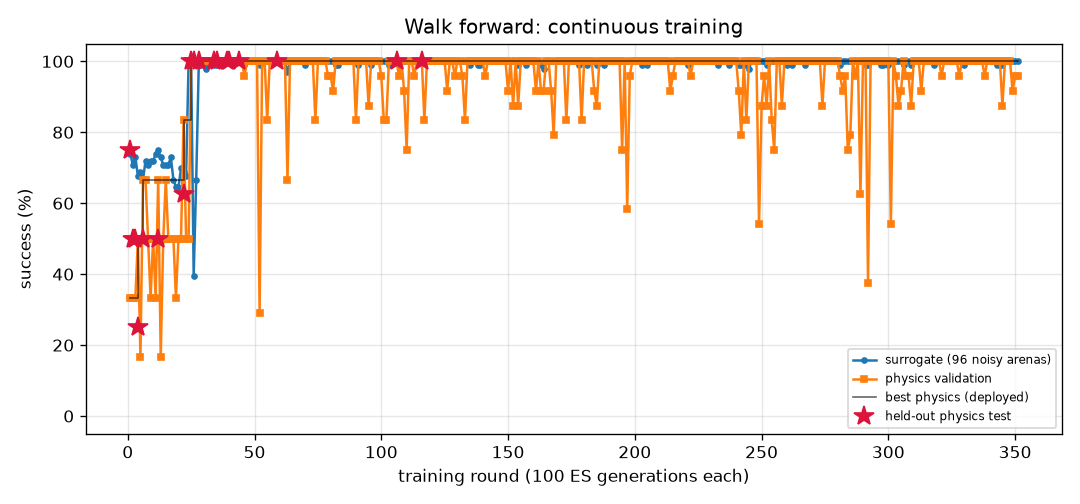
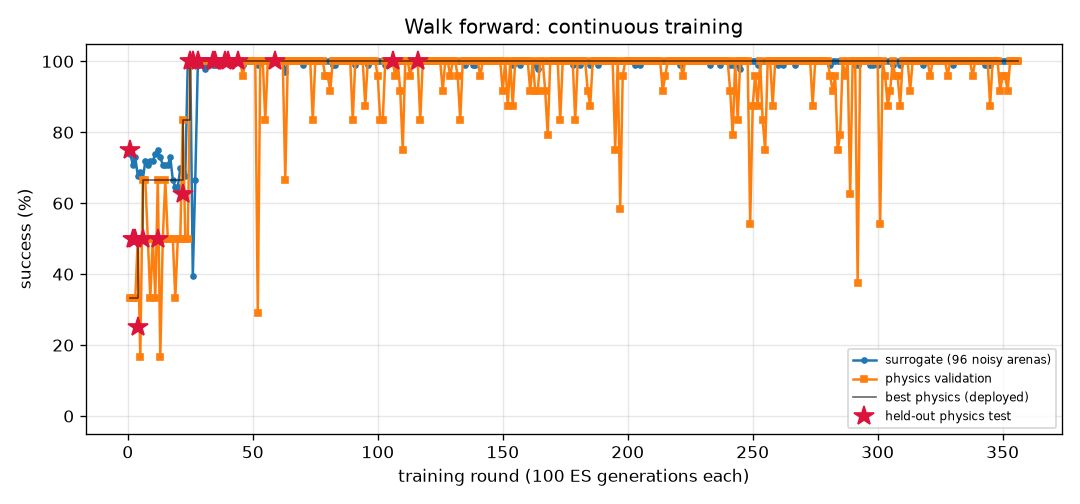
FlyLab: continuous training progress
- walk_forward: optimal, physics val 100% of 24, round 356
- turn: optimal, physics val 100% of 24, round 971
- goto: optimal, physics val 100% of 24, round 281
- odor_seek: optimal, physics val 100% of 24, round 228
- odor_avoid: optimal, physics val 100% of 24, round 867
- light_seek: optimal, physics val 100% of 24, round 478
- light_avoid: optimal, physics val 100% of 24, round 602

diff --git a/projects/09_flylab/training/walk_forward/REPORT.md b/projects/09_flylab/training/walk_forward/REPORT.md
@@ -1,14 +1,14 @@
 # Walk forward (`walk_forward`) — training report
 
-*Auto-generated by `train_brains.py`, last updated 2026-11-09T20:40:05.*
+*Auto-generated by `train_brains.py`, last updated 2026-11-09T21:34:55.*
 
 ![curve](curve.png)
 
 | | |
 |---|---|
-| rounds | 351 |
-| ES generations | 35100 |
-| physics runs | 8438 |
+| rounds | 356 |
+| ES generations | 35600 |
+| physics runs | 8558 |
 | status | **optimal** |
 | best brain | round 116: physics validation **100%** on 24 arenas, surrogate 100% |
 | held-out physics test | **100%** on 32 unseen arenas (95% CI 89%-100%) (errors: [0.13, 0.16, 0.19, 0.16, 0.15, 0.2, 0.17, 0.18, 0.17, 0.19, 0.2, 0.14, 0.17, 0.19, 0.2, 0.2, 0.13, 0.19, 0.16, 0.2, 0.2, 0.16, 0.17, 0.2, 0.13, 0.15, 0.18, 0.14, 0.16, 0.15, 0.19, 0.12]) |
@@ -17,11 +17,6 @@ Physics error per arena: mm from target at the end (< 1.5 and standing still = s
 
 | round | level | gens | sigma | surrogate | physics val | val errors | test | note |
 |---:|---:|---:|---:|---:|---:|---|---:|---|
-| 312 | 3 | 31200 | 0.024 | 100% | 100% | [0.27, 0.41, 0.14, 0.27, 0.41, 0.07, 0.43, 0.25, 0.45, 0.48, 0.12, 0.48, 0.24, 0.09, 0.28, 0.47, 0.26, 0.34, 0.24, 0.32, 0.25, 0.49, 0.47, 0.25] |  | restart from best |
-| 313 | 3 | 31300 | 0.024 | 100% | 92% | [0.1, 0.14, 0.19, 0.07, 0.14, 0.1, 0.24, 0.11, 0.13, 0.3, 0.12, 0.33, 0.1, 0.03, 0.08, 0.29, 0.04, 0.16, 0.07, 0.08, 0.06, 0.22, 0.24, 0.1] |  |  |
-| 314 | 3 | 31400 | 0.024 | 100% | 100% | [0.24, 0.23, 0.22, 0.24, 0.23, 0.22, 0.23, 0.23, 0.23, 0.22, 0.21, 0.21, 0.24, 0.22, 0.23, 0.21, 0.24, 0.23, 0.24, 0.23, 0.24, 0.22, 0.2, 0.24] |  |  |
-| 315 | 3 | 31500 | 0.024 | 100% | 100% | [0.23, 0.23, 0.18, 0.23, 0.23, 0.17, 0.23, 0.2, 0.23, 0.22, 0.17, 0.2, 0.2, 0.17, 0.24, 0.21, 0.23, 0.24, 0.2, 0.24, 0.21, 0.21, 0.2, 0.2] |  |  |
-| 316 | 3 | 31600 | 0.024 | 100% | 100% | [0.26, 0.34, 0.3, 0.26, 0.33, 0.31, 0.34, 0.29, 0.34, 0.37, 0.32, 0.38, 0.29, 0.31, 0.27, 0.38, 0.27, 0.3, 0.29, 0.28, 0.28, 0.37, 0.37, 0.29] |  | restart from best |
 | 317 | 3 | 31700 | 0.024 | 100% | 100% | [0.08, 0.13, 0.07, 0.08, 0.13, 0.07, 0.12, 0.13, 0.16, 0.21, 0.08, 0.15, 0.08, 0.06, 0.09, 0.23, 0.08, 0.15, 0.08, 0.15, 0.08, 0.17, 0.26, 0.08] |  |  |
 | 318 | 3 | 31800 | 0.024 | 99% | 100% | [0.24, 0.26, 0.18, 0.25, 0.26, 0.16, 0.26, 0.21, 0.26, 0.23, 0.15, 0.21, 0.21, 0.17, 0.25, 0.22, 0.24, 0.26, 0.22, 0.25, 0.23, 0.23, 0.21, 0.21] |  |  |
 | 319 | 3 | 31900 | 0.025 | 100% | 100% | [0.25, 0.32, 0.15, 0.24, 0.33, 0.11, 0.35, 0.23, 0.33, 0.37, 0.08, 0.37, 0.18, 0.1, 0.32, 0.42, 0.24, 0.34, 0.22, 0.32, 0.21, 0.38, 0.44, 0.22] |  |  |
@@ -57,3 +52,8 @@ Physics error per arena: mm from target at the end (< 1.5 and standing still = s
 | 349 | 3 | 34900 | 0.024 | 100% | 92% | [0.18, 0.12, 0.08, 0.18, 0.14, 0.06, 0.12, 0.16, 0.12, 0.15, 0.06, 0.17, 0.03, 0.06, 0.05, 0.09, 0.19, 0.08, 0.19, 0.05, 0.16, 0.15, 0.13, 0.06] |  |  |
 | 350 | 3 | 35000 | 0.024 | 100% | 96% | [0.1, 0.17, 0.36, 0.1, 0.17, 0.38, 0.18, 0.04, 0.17, 0.19, 0.05, 0.19, 0.06, 0.53, 0.12, 0.2, 0.03, 0.15, 0.06, 0.13, 0.29, 0.19, 0.19, 0.05] |  |  |
 | 351 | 3 | 35100 | 0.024 | 100% | 96% | [0.07, 0.24, 0.24, 0.06, 0.24, 0.05, 0.25, 0.04, 0.24, 0.27, 0.14, 0.27, 0.1, 0.13, 0.05, 0.26, 0.1, 0.23, 0.08, 0.11, 0.09, 0.27, 0.17, 0.1] |  |  |
+| 352 | 3 | 35200 | 0.024 | 100% | 92% | [0.15, 0.2, 0.05, 0.15, 0.2, 0.05, 0.21, 0.07, 0.21, 0.23, 0.05, 0.22, 0.07, 0.08, 0.16, 0.22, 0.07, 0.2, 0.17, 0.17, 0.08, 0.23, 0.21, 0.28] |  | restart from best |
+| 353 | 3 | 35300 | 0.024 | 100% | 100% | [0.2, 0.26, 0.15, 0.2, 0.26, 0.02, 0.25, 0.17, 0.26, 0.26, 0.03, 0.24, 0.17, 0.14, 0.22, 0.25, 0.19, 0.25, 0.17, 0.23, 0.18, 0.25, 0.24, 0.17] |  |  |
+| 354 | 3 | 35400 | 0.024 | 100% | 100% | [0.22, 0.24, 0.17, 0.21, 0.24, 0.17, 0.24, 0.18, 0.24, 0.25, 0.16, 0.24, 0.18, 0.17, 0.22, 0.25, 0.21, 0.23, 0.19, 0.22, 0.19, 0.25, 0.24, 0.19] |  |  |
+| 355 | 3 | 35500 | 0.024 | 100% | 100% | [0.34, 0.33, 0.35, 0.34, 0.33, 0.34, 0.32, 0.34, 0.33, 0.32, 0.33, 0.31, 0.35, 0.34, 0.34, 0.31, 0.34, 0.33, 0.34, 0.34, 0.34, 0.32, 0.31, 0.35] |  |  |
+| 356 | 3 | 35600 | 0.024 | 100% | 100% | [0.25, 0.26, 0.21, 0.25, 0.26, 0.21, 0.26, 0.22, 0.27, 0.25, 0.2, 0.24, 0.22, 0.21, 0.27, 0.24, 0.24, 0.27, 0.23, 0.26, 0.23, 0.25, 0.24, 0.22] |  | restart from best |

diff --git a/projects/09_flylab/training/light_seek/REPORT.md b/projects/09_flylab/training/light_seek/REPORT.md
@@ -1,14 +1,14 @@
 # Walk toward light (`light_seek`) — training report
 
-*Auto-generated by `train_brains.py`, last updated 2026-11-09T20:46:01.*
+*Auto-generated by `train_brains.py`, last updated 2026-11-09T21:17:16.*
 
 ![curve](curve.png)
 
 | | |
 |---|---|
-| rounds | 476 |
-| ES generations | 47600 |
-| physics runs | 8304 |
+| rounds | 478 |
+| ES generations | 47800 |
+| physics runs | 8352 |
 | status | **optimal** |
 | best brain | round 375: physics validation **100%** on 24 arenas, surrogate 100% |
 | held-out physics test | **100%** on 32 unseen arenas (95% CI 89%-100%) (errors: [0.57, 0.54, 0.53, 0.57, 0.55, 0.56, 0.59, 0.56, 0.53, 0.56, 0.71, 0.56, 0.55, 0.54, 0.53, 0.54, 0.54, 0.55, 0.52, 0.65, 0.64, 0.7, 0.58, 0.57, 0.6, 0.62, 0.55, 0.88, 0.54, 0.52, 0.62, 0.57]) |
@@ -17,8 +17,6 @@ Physics error per arena: mm from target at the end (< 1.5 and standing still = s
 
 | round | level | gens | sigma | surrogate | physics val | val errors | test | note |
 |---:|---:|---:|---:|---:|---:|---|---:|---|
-| 437 | 3 | 43700 | 0.024 | 100% | 96% | [1.6, 0.61, 0.54, 0.55, 0.56, 0.55, 0.56, 0.5, 0.55, 0.63, 0.52, 0.59, 0.6, 0.55, 0.56, 0.62, 0.56, 0.54, 0.63, 0.58, 0.7, 0.56, 0.58, 0.6] |  |  |
-| 438 | 3 | 43800 | 0.024 | 100% | 100% | [0.57, 0.55, 0.61, 0.62, 0.6, 0.58, 0.59, 0.59, 0.66, 0.69, 0.72, 0.55, 0.64, 0.59, 0.64, 0.58, 0.55, 1.06, 0.54, 0.6, 0.62, 0.64, 0.58, 0.65] |  |  |
 | 439 | 3 | 43900 | 0.024 | 100% | 100% | [0.57, 0.5, 0.71, 0.66, 0.54, 1.13, 0.49, 0.48, 0.94, 0.61, 0.49, 0.49, 0.49, 0.51, 0.52, 0.47, 0.51, 0.55, 0.66, 0.47, 0.6, 0.49, 0.53, 0.52] |  | restart from best |
 | 440 | 3 | 44000 | 0.024 | 100% | 100% | [0.63, 0.71, 0.7, 0.61, 0.62, 0.59, 0.62, 0.56, 1.31, 0.64, 0.74, 0.73, 0.72, 0.57, 0.73, 0.61, 0.64, 0.78, 0.57, 0.62, 0.75, 0.64, 0.77, 0.74] |  |  |
 | 441 | 3 | 44100 | 0.024 | 100% | 100% | [0.69, 0.63, 0.58, 0.67, 0.81, 0.59, 0.62, 0.71, 0.7, 0.58, 0.59, 0.66, 0.7, 0.57, 0.68, 0.66, 1.06, 0.58, 0.69, 0.6, 0.56, 0.68, 0.73, 0.65] |  |  |
@@ -57,3 +55,5 @@ Physics error per arena: mm from target at the end (< 1.5 and standing still = s
 | 474 | 3 | 47400 | 0.024 | 100% | 100% | [0.63, 0.61, 0.68, 1.0, 0.58, 0.66, 0.61, 0.64, 0.62, 0.61, 0.69, 0.59, 0.56, 0.57, 0.62, 0.66, 0.55, 0.66, 0.62, 0.59, 0.56, 0.77, 0.6, 0.71] |  |  |
 | 475 | 3 | 47500 | 0.024 | 100% | 100% | [0.66, 0.54, 0.61, 0.6, 0.61, 0.56, 0.54, 0.68, 0.93, 0.59, 0.55, 0.61, 0.51, 0.64, 0.66, 0.54, 0.56, 0.54, 0.57, 0.54, 0.6, 0.67, 0.59, 0.57] |  | restart from best |
 | 476 | 3 | 47600 | 0.024 | 100% | 100% | [0.58, 0.56, 0.56, 0.6, 0.54, 0.53, 0.64, 0.55, 0.54, 0.58, 0.65, 0.53, 0.54, 0.53, 0.63, 0.63, 0.54, 0.62, 0.52, 0.54, 0.63, 0.54, 0.52, 0.68] |  |  |
+| 477 | 3 | 47700 | 0.024 | 100% | 100% | [0.65, 0.56, 0.5, 0.65, 0.61, 0.51, 0.59, 0.49, 0.57, 0.61, 0.6, 0.47, 0.64, 0.68, 0.53, 0.46, 0.49, 0.62, 0.59, 0.5, 0.59, 0.69, 0.46, 0.56] |  |  |
+| 478 | 3 | 47800 | 0.024 | 100% | 100% | [0.7, 0.55, 0.69, 0.66, 0.69, 0.61, 0.54, 0.56, 0.55, 0.61, 0.59, 0.56, 0.54, 0.66, 0.71, 0.53, 0.71, 0.52, 0.59, 0.78, 0.63, 0.57, 0.62, 0.56] |  |  |

diff --git a/projects/09_flylab/training/goto/REPORT.md b/projects/09_flylab/training/goto/REPORT.md
@@ -1,14 +1,14 @@
 # Go to a location (`goto`) — training report
 
-*Auto-generated by `train_brains.py`, last updated 2026-11-09T18:16:32.*
+*Auto-generated by `train_brains.py`, last updated 2026-11-09T21:45:51.*
 
 ![curve](curve.png)
 
 | | |
 |---|---|
-| rounds | 279 |
-| ES generations | 27900 |
-| physics runs | 6646 |
+| rounds | 281 |
+| ES generations | 28100 |
+| physics runs | 6694 |
 | status | **optimal** |
 | best brain | round 176: physics validation **100%** on 24 arenas, surrogate 100% |
 | held-out physics test | **100%** on 32 unseen arenas (95% CI 89%-100%) (errors: [0.2, 0.32, 0.19, 0.24, 0.18, 0.2, 0.19, 0.17, 0.22, 0.23, 0.23, 0.26, 0.2, 0.19, 0.24, 0.23, 0.22, 0.24, 0.2, 0.22, 0.2, 0.2, 0.26, 0.19, 0.22, 0.18, 0.26, 0.22, 0.2, 0.26, 0.23, 0.23]) |
@@ -17,8 +17,6 @@ Physics error per arena: mm from target at the end (< 1.5 and standing still = s
 
 | round | level | gens | sigma | surrogate | physics val | val errors | test | note |
 |---:|---:|---:|---:|---:|---:|---|---:|---|
-| 240 | 3 | 24000 | 0.024 | 99% | 100% | [0.56, 0.54, 0.56, 0.43, 0.42, 0.41, 0.55, 0.45, 0.46, 0.39, 0.37, 0.41, 0.54, 0.4, 0.42, 0.47, 0.57, 0.47, 0.38, 0.47, 0.45, 0.4, 0.54, 0.42] |  | restart from best |
-| 241 | 3 | 24100 | 0.024 | 99% | 100% | [0.43, 0.49, 0.49, 0.47, 0.38, 0.43, 0.5, 0.47, 0.47, 0.39, 0.36, 0.45, 0.43, 0.39, 0.42, 0.45, 0.45, 0.43, 0.38, 0.51, 0.44, 0.39, 0.46, 0.44] |  |  |
 | 242 | 3 | 24200 | 0.025 | 99% | 100% | [0.63, 0.56, 0.55, 0.48, 0.44, 0.44, 0.62, 0.5, 0.45, 0.44, 0.42, 0.47, 0.58, 0.42, 0.52, 0.49, 0.61, 0.47, 0.43, 0.55, 0.46, 0.45, 0.57, 0.47] |  |  |
 | 243 | 3 | 24300 | 0.025 | 99% | 100% | [0.69, 0.66, 0.64, 0.55, 0.51, 0.54, 0.65, 0.62, 0.61, 0.51, 0.49, 0.54, 0.64, 0.53, 0.55, 0.57, 0.71, 0.56, 0.5, 0.6, 0.55, 0.53, 0.69, 0.56] |  |  |
 | 244 | 3 | 24400 | 0.025 | 99% | 100% | [0.59, 0.55, 0.56, 0.42, 0.42, 0.41, 0.57, 0.51, 0.47, 0.4, 0.39, 0.43, 0.52, 0.4, 0.46, 0.5, 0.57, 0.46, 0.38, 0.47, 0.45, 0.4, 0.54, 0.41] |  | restart from best |
@@ -57,3 +55,5 @@ Physics error per arena: mm from target at the end (< 1.5 and standing still = s
 | 277 | 3 | 27700 | 0.024 | 100% | 100% | [0.53, 0.52, 0.43, 0.51, 0.41, 0.46, 0.48, 0.53, 0.57, 0.43, 0.43, 0.49, 0.56, 0.46, 0.46, 0.49, 0.55, 0.47, 0.42, 0.56, 0.47, 0.44, 0.54, 0.5] |  |  |
 | 278 | 3 | 27800 | 0.024 | 100% | 100% | [0.57, 0.54, 0.61, 0.56, 0.42, 0.5, 0.55, 0.57, 0.57, 0.47, 0.46, 0.52, 0.59, 0.48, 0.53, 0.5, 0.61, 0.51, 0.44, 0.56, 0.48, 0.48, 0.6, 0.51] |  |  |
 | 279 | 3 | 27900 | 0.024 | 99% | 100% | [0.39, 0.36, 0.29, 0.4, 0.29, 0.36, 0.37, 0.42, 0.41, 0.3, 0.35, 0.39, 0.4, 0.3, 0.28, 0.31, 0.41, 0.36, 0.28, 0.4, 0.29, 0.31, 0.41, 0.39] |  |  |
+| 280 | 3 | 28000 | 0.025 | 99% | 100% | [0.45, 0.39, 0.43, 0.45, 0.36, 0.4, 0.4, 0.43, 0.44, 0.35, 0.38, 0.44, 0.46, 0.31, 0.42, 0.34, 0.47, 0.39, 0.35, 0.48, 0.32, 0.39, 0.41, 0.42] |  | restart from best |
+| 281 | 3 | 28100 | 0.024 | 98% | 100% | [0.5, 0.42, 0.44, 0.38, 0.33, 0.33, 0.45, 0.4, 0.44, 0.34, 0.32, 0.37, 0.47, 0.33, 0.4, 0.4, 0.51, 0.36, 0.34, 0.48, 0.35, 0.4, 0.46, 0.37] |  |  |

diff --git a/projects/09_flylab/training/TRAINING.md b/projects/09_flylab/training/TRAINING.md
@@ -1,15 +1,15 @@
 # FlyLab brains — continuous training log
 
-*Auto-generated by `train_brains.py`, last updated 2026-11-09T20:46:01.*
+*Auto-generated by `train_brains.py`, last updated 2026-11-09T21:45:51.*
 
 Every skill has its own brain and its own training process: surrogate ES rounds, physics validation in MuJoCo, keep-the-best selection, and a held-out physics test that is never used for selection. See each skill's report for its full round-by-round history. Mastery is progressive: passing a level (100% physics validation, >=95% surrogate) doubles the validation and test arena sets; a brain is **optimal** once it holds up at level 3 (>=95% of 24 validation arenas) AND scores >=90% on the 32 held-out test arenas. Test columns show 95% Wilson confidence intervals.
 
 | skill | rounds | ES generations | physics runs | surrogate | physics val | **physics test** | status |
 |---|---:|---:|---:|---:|---:|---:|---|
-| [Walk forward](walk_forward/REPORT.md) | 351 | 35100 | 8438 | 100% | 100% of 24 | 100% of 32 (CI 89-100%) | **optimal** |
+| [Walk forward](walk_forward/REPORT.md) | 356 | 35600 | 8558 | 100% | 100% of 24 | 100% of 32 (CI 89-100%) | **optimal** |
 | [Turn in place](turn/REPORT.md) | 971 | 97100 | 23550 | 100% | 100% of 24 | 97% of 32 (CI 84-99%) | **optimal** |
-| [Go to a location](goto/REPORT.md) | 279 | 27900 | 6646 | 100% | 100% of 24 | 100% of 32 (CI 89-100%) | **optimal** |
+| [Go to a location](goto/REPORT.md) | 281 | 28100 | 6694 | 100% | 100% of 24 | 100% of 32 (CI 89-100%) | **optimal** |
 | [Find food by smell](odor_seek/REPORT.md) | 228 | 22800 | 4902 | 100% | 100% of 24 | 100% of 32 (CI 89-100%) | **optimal** |
 | [Escape a bad smell](odor_avoid/REPORT.md) | 867 | 86700 | 18114 | 97% | 100% of 24 | 97% of 32 (CI 84-99%) | **optimal** |
-| [Walk toward light](light_seek/REPORT.md) | 476 | 47600 | 8304 | 100% | 100% of 24 | 100% of 32 (CI 89-100%) | **optimal** |
+| [Walk toward light](light_seek/REPORT.md) | 478 | 47800 | 8352 | 100% | 100% of 24 | 100% of 32 (CI 89-100%) | **optimal** |
 | [Hide from light](light_avoid/REPORT.md) | 602 | 60200 | 14720 | 100% | 100% of 24 | 100% of 32 (CI 89-100%) | **optimal** |
